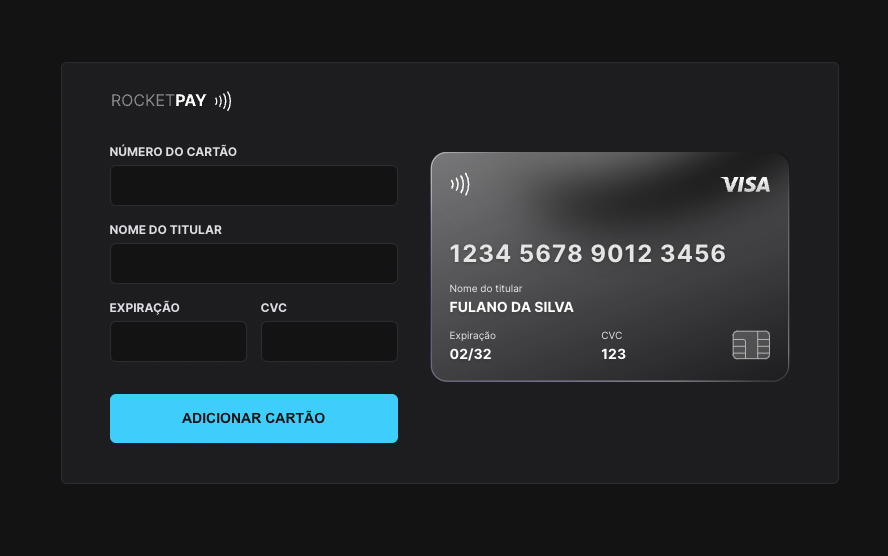
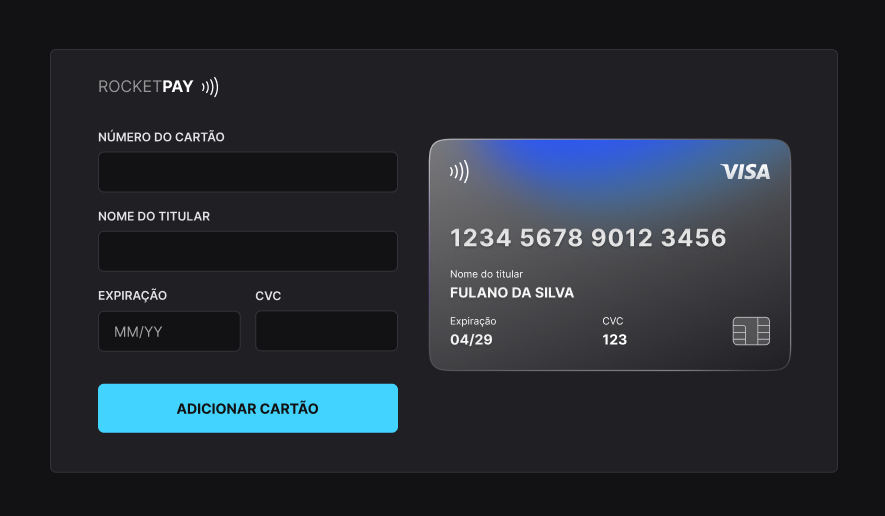
Finalização do projeto

diff --git a/src/main.js b/src/main.js
@@ -1,15 +1,17 @@
 import IMask from "imask"
 import "./css/index.css"
 
-const ccBgColor01 = document.querySelector(".cc-bg svg > g g:nth-child(1) path")
-const ccBgColor02 = document.querySelector(".cc-bg svg > g g:nth-child(2) path")
-const ccLogo = document.querySelector(".cc-logo span:nth-child(2) img")
-
+// Bandeira do cartão
 function setCardType(type) {
+  const ccBgColor01 = document.querySelector(".cc-bg svg > g g:nth-child(1) path")
+  const ccBgColor02 = document.querySelector(".cc-bg svg > g g:nth-child(2) path")
+  const ccLogo = document.querySelector(".cc-logo span:nth-child(2) img")
+
   const colors = {
     visa: ["#436d99", "#2d57f2"],
     mastercard: ["#df6f29", "#c69347"],
     nubank: ["#820ad1", "#4b067a"],
+    apple: ["#a6a6a6", "#999999"],
     default: ["black", "gray"]
   }
 
@@ -20,18 +22,73 @@ function setCardType(type) {
 
 globalThis.setCardType = setCardType
 
-const securityCode = document.querySelector("#security-code")
-const ccSecurity = document.querySelector(".cc-security .value")
+// Número do cartão
+const cardNumber = document.getElementById("card-number")
 
-const securityCodePattern = {
-  mask: "0000"
+const cardNumberPattern = {
+  mask: [
+    {
+      mask: "0000 0000 0000 0000",
+      regex: /^4\d{0,15}/,
+      cardType: "visa",
+    },
+    {
+      mask: "0000 0000 0000 0000",
+      regex: /(^5[1-5]\d{0,2}|^22[2-9]\d|^2[3-7]\d{0,2})\d{0,12}/,
+      cardType: "mastercard",
+    },
+    {
+      mask: "0000 0000 0000 0000",
+      regex: /^5[7-8]\d{0,14}/,
+      cardType: "nubank",
+    },
+    {
+      mask: "0000 0000 0000 0000",
+      regex: /^7[2-8]\d{0,14}/,
+      cardType: "apple",
+    },
+    {
+      mask: "0000 0000 0000 0000",
+      cardType: "default",
+    }
+  ],
+  dispatch: function (append, dynamicMasked) {
+    const number = (dynamicMasked.value + append).replace(/\D/g, "")
+
+    const foundMask = dynamicMasked.compiledMasks.find(function (item) {
+      return number.match(item.regex)
+    })
+
+    // console.log(foundMask)
+
+    return foundMask
+  }
 }
 
-const securityCodeMasked = IMask(securityCode, securityCodePattern)
-securityCode.addEventListener("change", () => { ccSecurity.textContent = securityCodeMasked.value })
+const cardNumberMasked = IMask(cardNumber, cardNumberPattern)
 
-const expirationDate = document.querySelector("#expiration-date")
-const ccExpirationDate = document.querySelector(".cc-expiration .value")
+cardNumberMasked.on("accept", () => {
+  const cardType = cardNumberMasked.masked.currentMask.cardType
+  setCardType(cardType)
+
+  updateCardNumber(cardNumberMasked.value)
+})
+
+function updateCardNumber(number) {
+  const ccCardNumber = document.querySelector(".cc-info .cc-number")
+  ccCardNumber.textContent = number ? number : "1234 5678 9012 3456"
+}
+
+// Nome do titular
+const cardHolder = document.getElementById("card-holder")
+cardHolder.addEventListener("input", () => {
+  const ccHolder = document.querySelector(".cc-holder .value")
+
+  ccHolder.textContent = cardHolder.value ? cardHolder.value : "fulano da silva"
+})
+
+// Expiração
+const expirationDate = document.getElementById("expiration-date")
 
 const expirationDatePattern = {
   mask: "MM{/}YY",
@@ -50,40 +107,40 @@ const expirationDatePattern = {
 }
 
 const expirationDateMasked = IMask(expirationDate, expirationDatePattern)
-expirationDate.addEventListener("change", () => { ccExpirationDate.textContent = expirationDateMasked.value })
 
-const cardNumber = document.querySelector("#card-number")
-const ccCardNumber = document.querySelector(".cc-info .cc-number")
+expirationDateMasked.on("accept", () => {
+  updateExpirationDate(expirationDateMasked.value)
+})
 
-const cardNumberPattern = {
-  mask: [
-    {
-      mask: "0000 0000 0000 0000",
-      regex: /^4\d{0,15}/,
-      cardtype: "visa",
-    },
-    {
-      mask: "0000 0000 0000 0000",
-      regex: /(^5[1-5]\d{0,2}|^22[2-9]\d|^2[3-7]\d{0,2})\d{0,12}/,
-      cardtype: "mastercard",
-    },
-    {
-      mask: "0000 0000 0000 0000",
-      cardtype: "default",
-    }
-  ],
-  dispatch: function (append, dynamicMasked) {
-    const number = (dynamicMasked.value + append).replace(/\D/g, "")
-
-    const foundMask = dynamicMasked.compiledMasks.find(function(item) {
-      return number.match(item.regex)
-    })
-
-    console.log(foundMask)
-
-    return foundMask
-  }
+function updateExpirationDate(date) {
+  const ccExpirationDate = document.querySelector(".cc-expiration .value")
+  ccExpirationDate.textContent = date ? date : "02/32"
 }
 
-const cardNumberMasked = IMask(cardNumber, cardNumberPattern)
-cardNumber.addEventListener("change", () => { ccCardNumber.textContent = cardNumberMasked.value })
+// CVC
+const securityCode = document.getElementById("security-code")
+
+const securityCodePattern = {
+  mask: "0000"
+}
+
+const securityCodeMasked = IMask(securityCode, securityCodePattern)
+
+securityCodeMasked.on("accept", () => {
+  updateSecurityCode(securityCodeMasked.value)
+})
+
+function updateSecurityCode(code) {
+  const ccSecurity = document.querySelector(".cc-security .value")
+  ccSecurity.textContent = code ? code : "123"
+}
+
+// Botão
+const addButton = document.getElementById("add-card")
+addButton.addEventListener("click", () => {
+  alert("Cartão adicionado!")
+})
+
+document.querySelector("form").addEventListener("submit", (event) => {
+  event.preventDefault()
+})

diff --git a/index.html b/index.html
@@ -155,7 +155,7 @@
           </div>
         </div>
 
-        <button>ADICIONAR CARTÃO</button>
+        <button id="add-card">ADICIONAR CARTÃO</button>
       </form>
     </div>
 

diff --git a/README.md b/README.md
@@ -1,25 +1,38 @@
-<h1 align="center"> Explorer Lab #01 </h1>
-
 <p align="center">
-Evento exclusivo e gratuito, promovido pela Rocketseat para ensino de tecnologias WEB.
+  <img alt="rocketpay" src=".github/cover.png" width="100%">
 </p>
 
+<h1 align="center">
+  Explorer Lab | RocketPay
+</h1>
+
+<h4 align="center">
+  Aplicativo desenvolvido durante o evento Explorer Lab #01 | JS DOM da <a href="https://www.rocketseat.com.br">Rocketseat</a> | de 17 a 20/10/2022
+</h4>
+
 <p align="center">
-  <a href="#-tecnologias">Tecnologias</a>&nbsp;&nbsp;&nbsp;|&nbsp;&nbsp;&nbsp;
-  <a href="#-projeto">Projeto</a>&nbsp;&nbsp;&nbsp;|&nbsp;&nbsp;&nbsp;
-  <a href="#-layout">Layout</a>&nbsp;&nbsp;&nbsp;|&nbsp;&nbsp;&nbsp;
+  <a href="#-projeto">Projeto</a>   •
+  <a href="#-tecnologias">Tecnologias</a>   •
+  <a href="#-tela">Tela</a>   •
+  <a href="#-layout">Layout</a>   •
   <a href="#memo-licença">Licença</a>
 </p>
 
 <p align="center">
+  <img alt="GitHub language count" src="https://img.shields.io/github/languages/count/frankjrp/RocketSeat_ExplorerLab-RocketPay">
+  
+  <a href="https://github.com/frankjrp/RocketSeat_ExplorerLab-RocketPay/commits/main">
+    <img alt="GitHub last commit" src="https://img.shields.io/github/last-commit/frankjrp/RocketSeat_ExplorerLab-RocketPay">
+  </a>
+
   <img alt="License" src="https://img.shields.io/static/v1?label=license&message=MIT&color=49AA26&labelColor=000000">
 </p>
 
 <br>
 
-<p align="center">
-  <img alt="rocketpay" src=".github/project.png" width="100%">
-</p>
+## 💻 Projeto
+
+O Rocketpay é um componente que simula o formulário de preenchimento de cartão de crédito, onde é possível adicionar máscara aos inputs e atualizar elementos HTML via DOM.
 
 ## 🚀 Tecnologias
 
@@ -31,18 +44,16 @@ Esse projeto foi desenvolvido com as seguintes tecnologias:
 - [Vite](https://vitejs.dev/)
 - [iMask](https://imask.js.org)
 
-## 💻 Projeto
+## 🎨 Tela
 
-O Rocketpay é um componente que simula o formulário de preenchimento de cartão de crédito, onde é possível adicionar máscara aos inputs e atualizar elementos HTML via DOM.
+<p align="center">
+  <img src=".github/project.png" width="100%">
+</p>
 
 ## 🔖 Layout
 
-Você pode visualizar o layout do projeto através [DESSE LINK](https://www.figma.com/file/gpqavL469k0pPUGOmAQEM9/Explorer-Lab-%2301/duplicate). É necessário ter conta no [Figma](https://figma.com) para acessá-lo.
+Você pode visualizar o layout do projeto no [FIGMA](https://www.figma.com/file/FjgigMJvQhh07GU7BbXA9i/RocketPay-%7C-Evento-Explorer-Lab-%2301?node-id=0%3A1).
 
 ## :memo: Licença
 
 Esse projeto está sob a licença MIT.
-
----
-
-Feito com ♥ by Rocketseat :wave: [Participe da nossa comunidade!](https://discord.gg/rocketseat)
